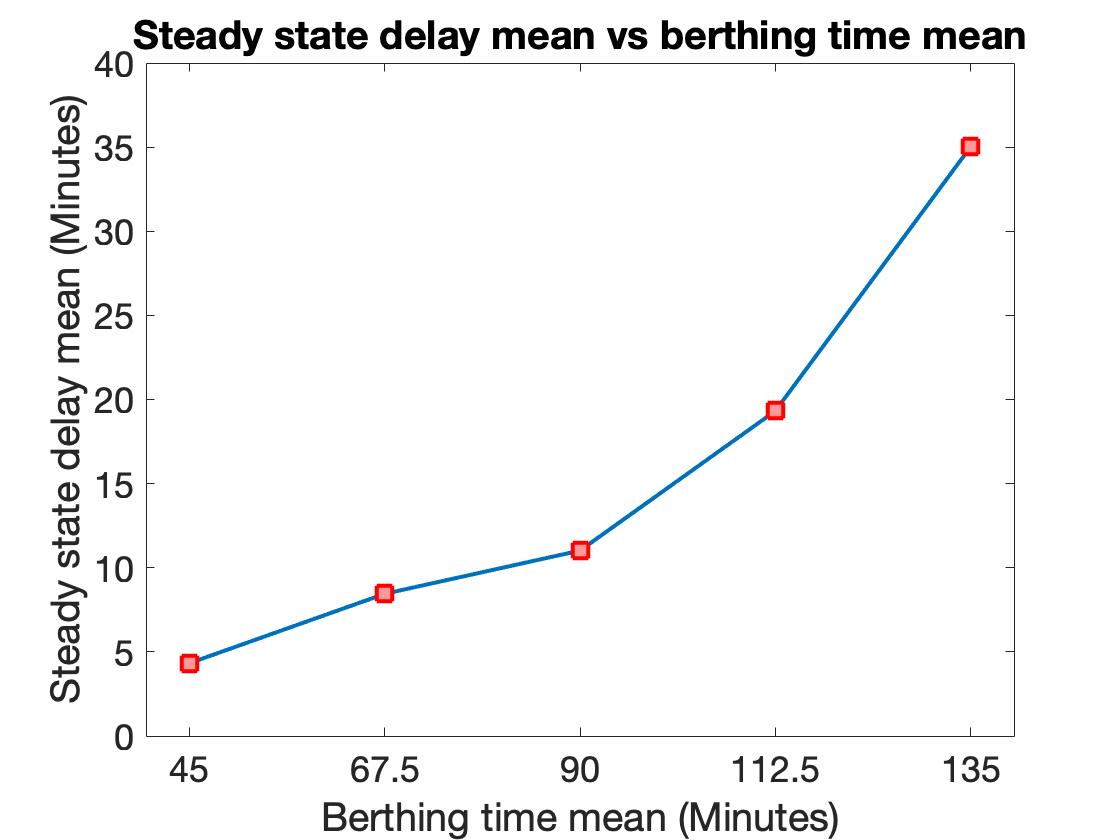
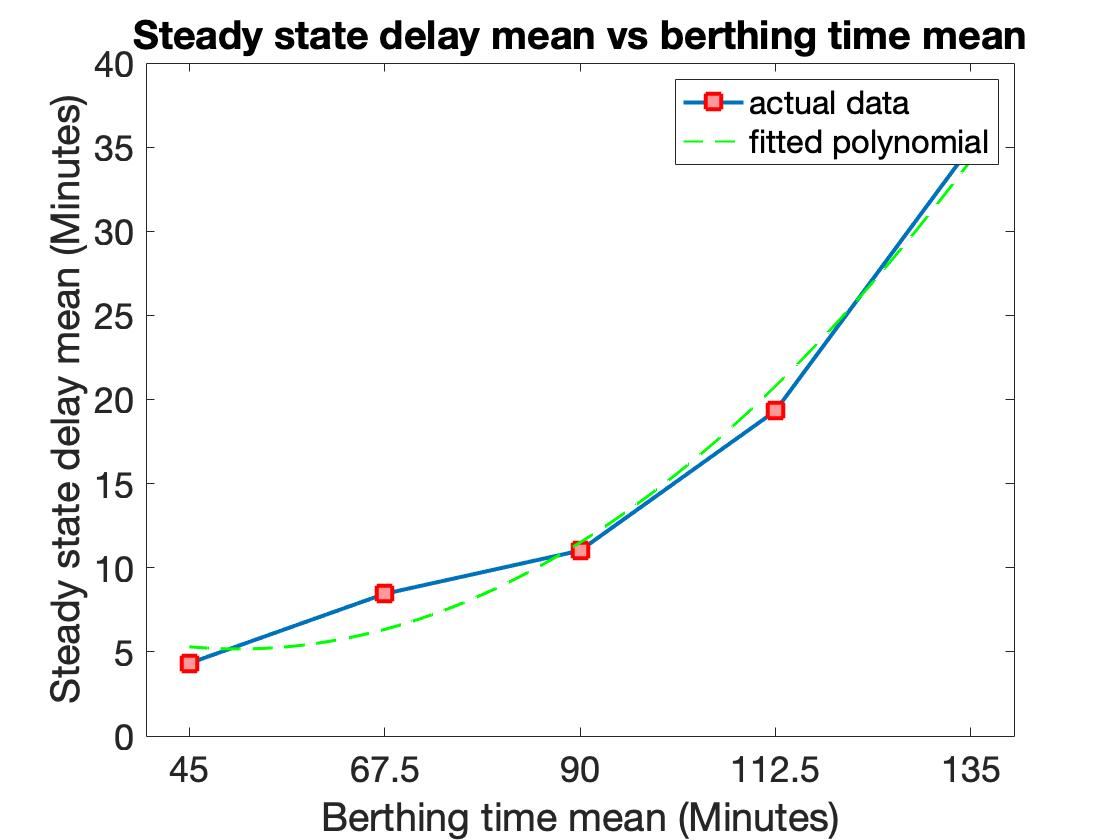
change scripts

diff --git a/results/scripts/sensitivity_analysis_script.m b/results/scripts/sensitivity_analysis_script.m
@@ -1,23 +1,33 @@
 %%%%%%% Operation Error Scenario %%%%%%%%
 %%% average delay vs different berthing time
 figure();
+t = [45 67.5 90 112.5 135];
 avg_delay_time = [4.3270 8.4500 11.0188 19.3182 35.0194];
-plot([45 67.5 90 112.5 135], avg_delay_time, '-s','LineWidth',2, 'MarkerSize',10,...
+plot(t, avg_delay_time, '-s','LineWidth',2, 'MarkerSize',10,...
     'MarkerEdgeColor','red',...
-    'MarkerFaceColor',[1 .6 .6]); 
-set(gca, 'FontSize',18);
-xticks([45 67.5 90 112.5 135]);
+    'MarkerFaceColor',[1 .6 .6]); hold on;
+p = polyfit(t,avg_delay_time,2);
+t1 = 45:0.1:135;
+y1 = polyval(p,t1);
+plot(t1, y1 ,'--g','LineWidth',1); 
+set(gca, 'FontSize',18); legend('actual data', 'fitted polynomial');
+xticks(t);
 ylabel('Steady state delay mean (Minutes)'); 
 xlabel('Berthing time mean (Minutes)');
 title('Steady state delay mean vs berthing time mean');
 
 %%% average delay vs different unloading time
 figure();
+t = [120 150 180 210 240];
 avg_delay_time = [4.3270 9.6910 25.3338 53.9302 92.6978];
-plot([120 150 180 210 240], avg_delay_time, '-s','LineWidth',2, 'MarkerSize',10,...
+plot(t, avg_delay_time, '-s','LineWidth',2, 'MarkerSize',10,...
     'MarkerEdgeColor','red',...
-    'MarkerFaceColor',[1 .6 .6]); 
-set(gca, 'FontSize',18);
+    'MarkerFaceColor',[1 .6 .6]); hold on;
+p = polyfit(t,avg_delay_time,2);
+t2 = 120:0.1:240;
+y2 = polyval(p,t2);
+plot(t2, y2 ,'--g','LineWidth',1); 
+set(gca, 'FontSize',18); legend('actual data', 'fitted polynomial');
 xticks([120 150 180 210 240]);
 ylabel('Steady state delay mean (Minutes)'); 
 xlabel('Loading time mean (Minutes)');
